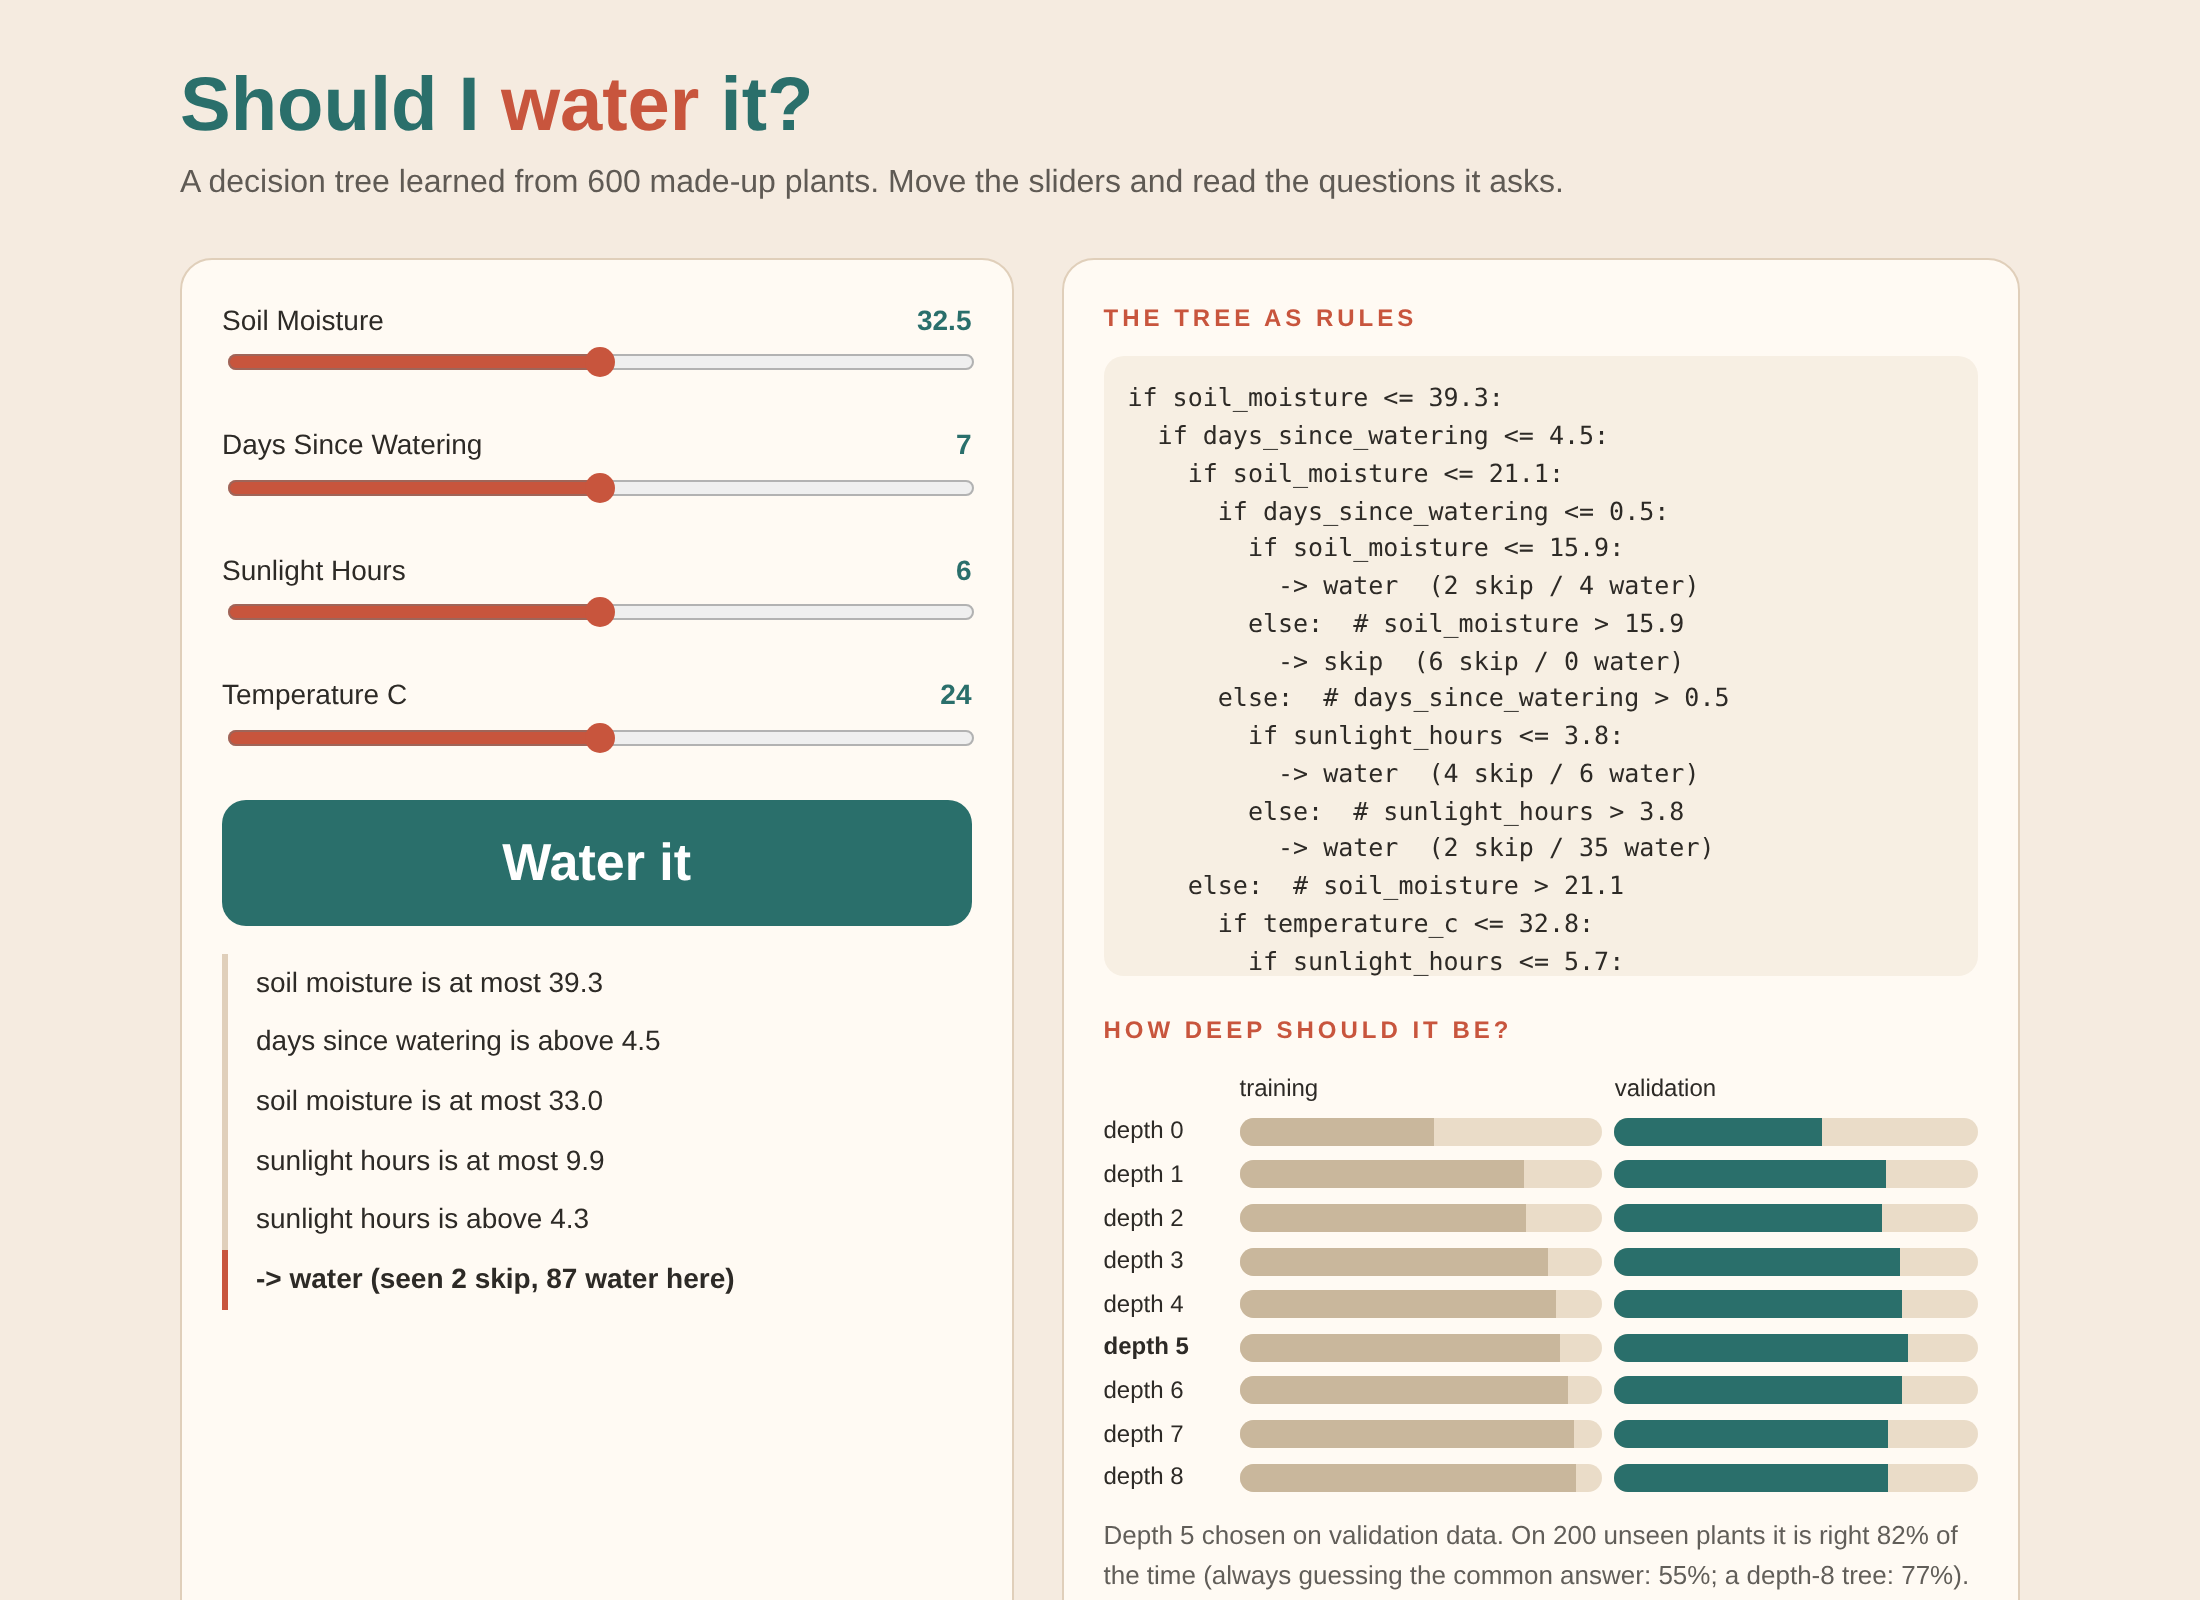
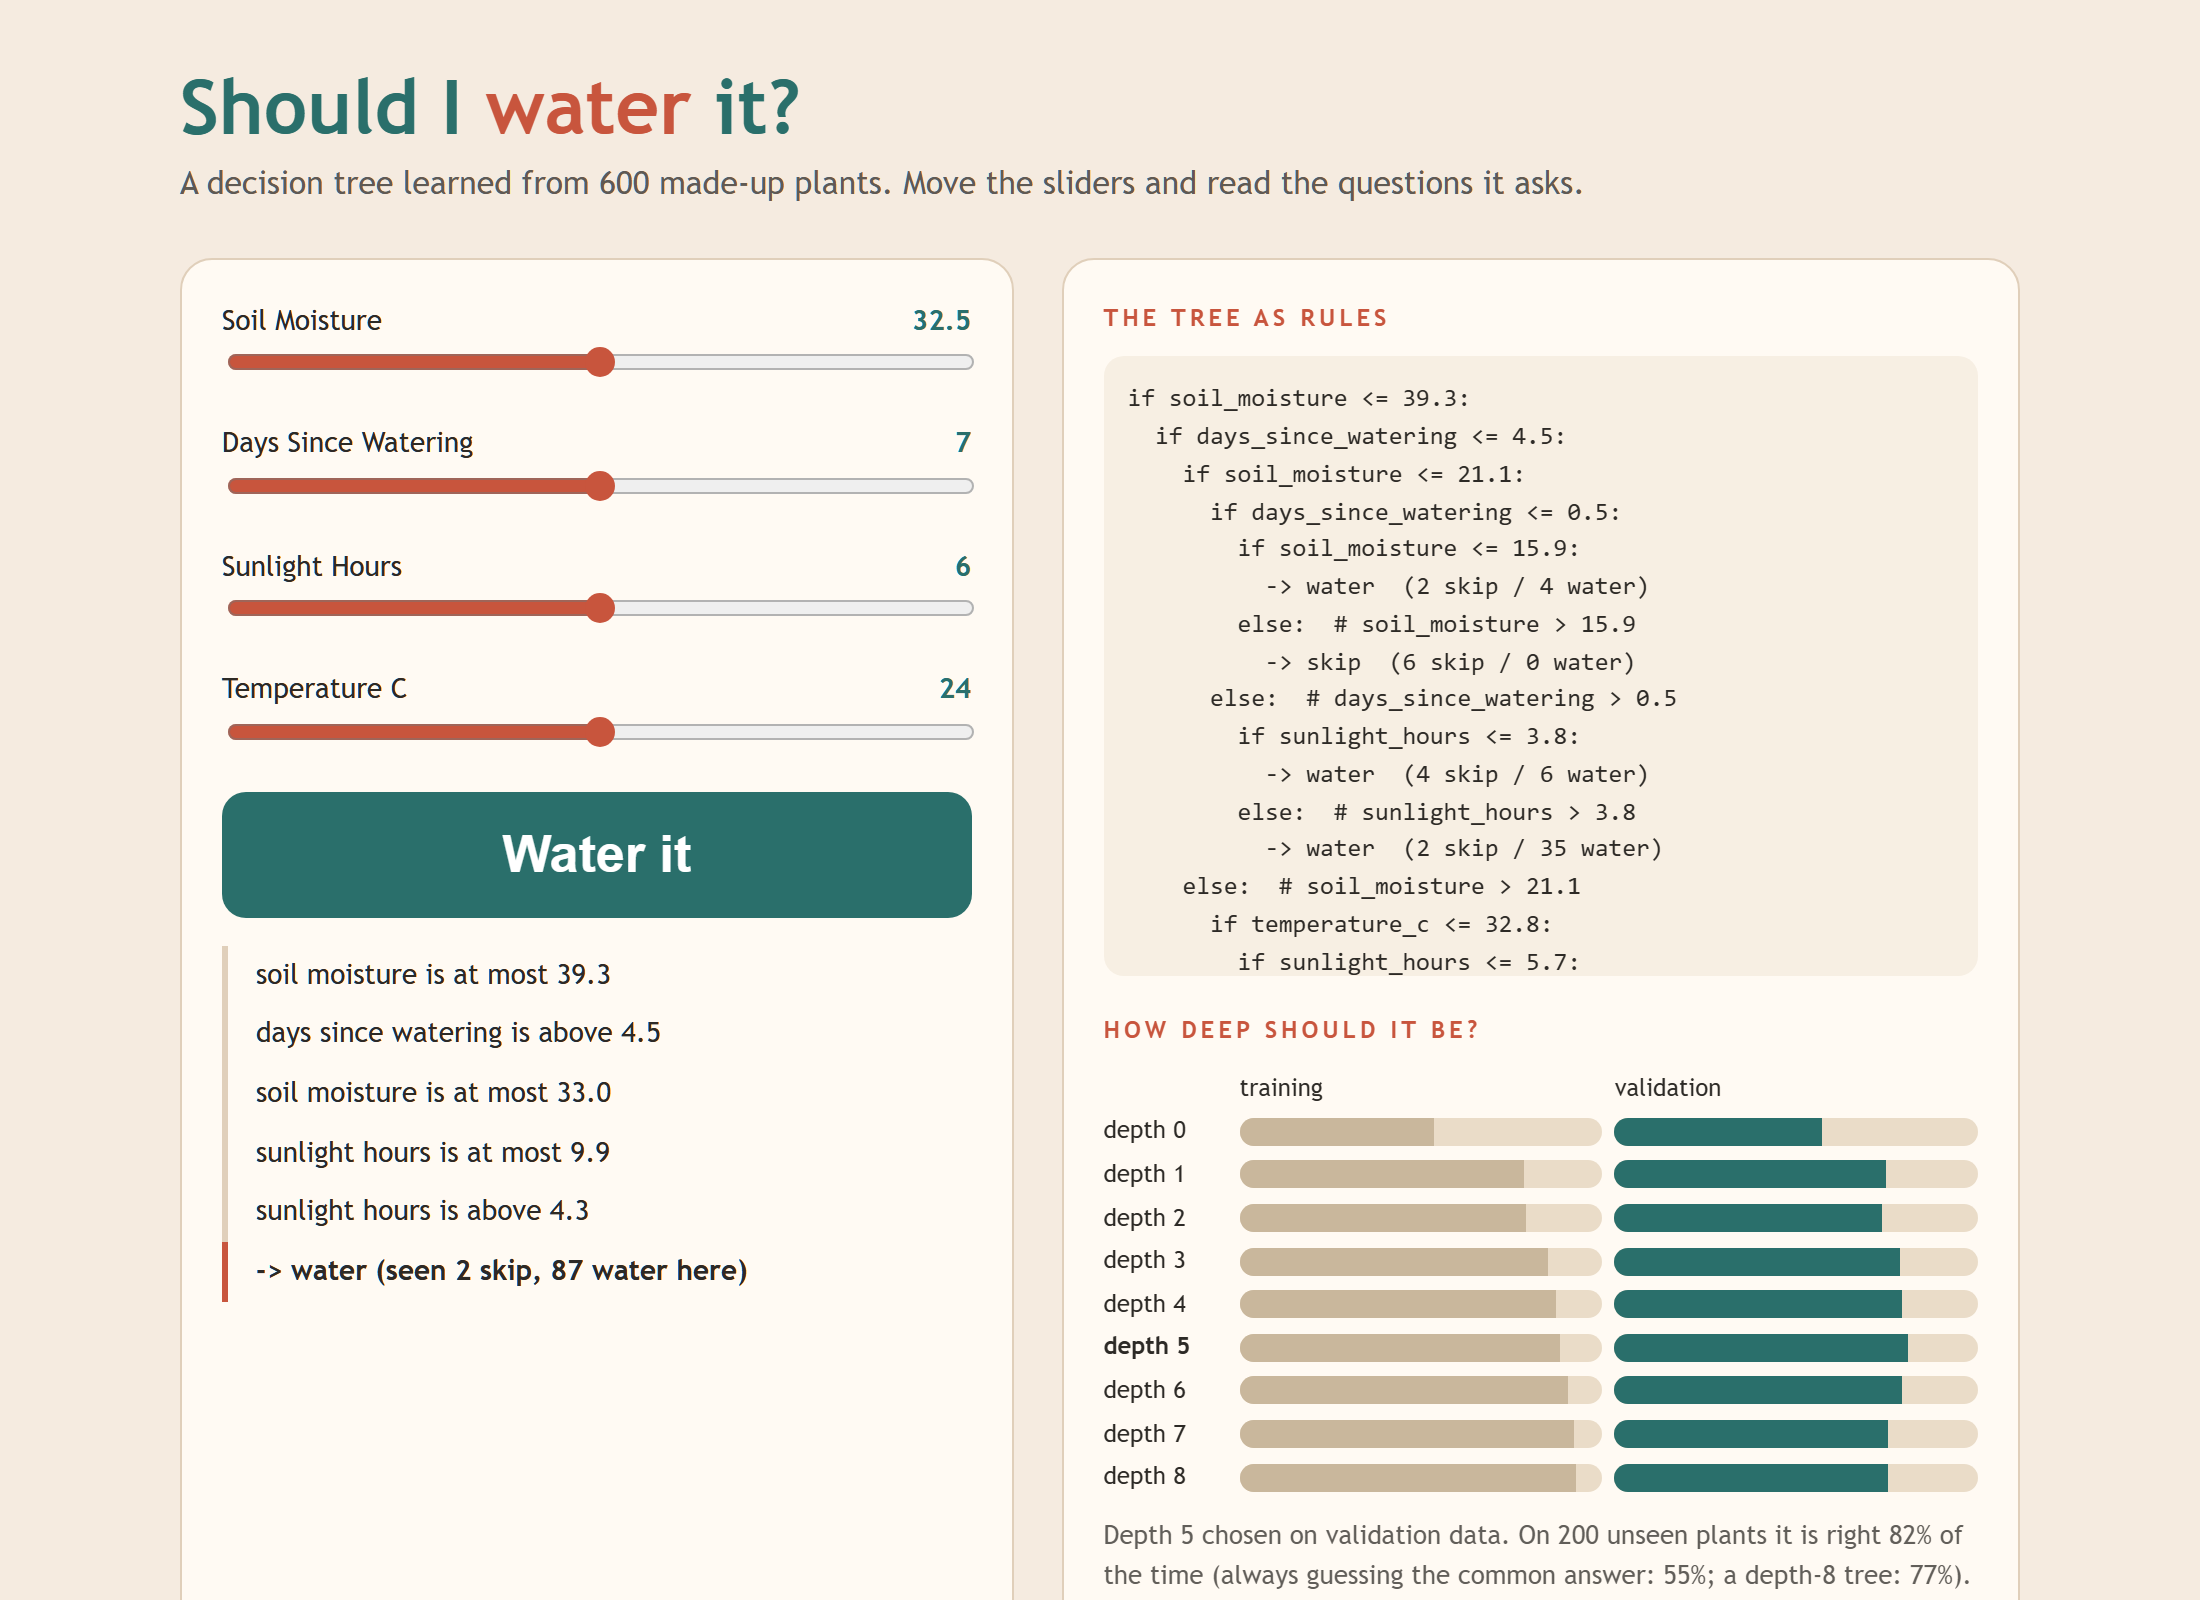
Improve plant-watering-tree

diff --git a/projects/plant-watering-tree/static/index.html b/projects/plant-watering-tree/static/index.html
@@ -15,18 +15,19 @@ pre{margin:0;font:12.5px/1.5 Menlo,Consolas,monospace;white-space:pre-wrap;max-h
 .bars .row{display:grid;grid-template-columns:62px 1fr 1fr;gap:6px;align-items:center;font-size:12px;margin:3px 0}.bar{height:14px;background:#eadcc8;border-radius:7px;overflow:hidden}.bar i{display:block;height:100%}.t i{background:#c9b79c}.v i{background:var(--teal)}.row.best{font-weight:700}
 .note{font-size:13px;opacity:.75;margin:10px 0 0}
 @media(max-width:760px){main{grid-template-columns:1fr}}
+@media (prefers-color-scheme: dark){:root{--bg:#1a130f;--ink:#f5e9dc;--card:#2a201a;--teal:#6fc2bb;--clay:#ff8a6e;--line:#4a3a2e}pre{background:#2a201a;color:var(--ink)}.ans{color:#1a130f}}
 </style></head><body><main>
 <header><h1>Should I <b>water</b> it?</h1><p class="sub">A decision tree learned from 600 made-up plants. Move the sliders and read the questions it asks.</p></header>
-<section class="card"><div id="sl"></div><div class="ans" id="ans"></div><ul class="why" id="why"></ul></section>
+<section class="card"><div id="sl"></div><div class="ans" id="ans" aria-live="polite"></div><ul class="why" id="why"></ul></section>
 <section class="card"><h2>The tree as rules</h2><pre id="rules"></pre>
 <h2 style="margin-top:18px">How deep should it be?</h2><div class="bars" id="bars"></div><p class="note" id="note"></p></section>
 </main><script>
 const $=i=>document.getElementById(i);let info,tm,depth=null;const v={};
-function sliders(){$('sl').innerHTML=info.features.map(f=>{const [a,b]=info.ranges[f];v[f]=(a+b)/2;return `<div class="sl"><label>${f.replace(/_/g,' ')}<b id="v_${f}">${v[f]}</b></label><input type="range" min="${a}" max="${b}" step="${f=='soil_moisture'||f=='sunlight_hours'||f=='temperature_c'?0.5:1}" value="${v[f]}" data-f="${f}"></div>`}).join('');
+function sliders(){$('sl').innerHTML=info.features.map(f=>{const [a,b]=info.ranges[f];v[f]=(a+b)/2;return `<div class="sl"><label>${f.replace(/_/g,' ')}<b id="v_${f}">${v[f]}</b></label><input type="range" aria-label="${f.replace(/_/g,' ')}" min="${a}" max="${b}" step="${f=='soil_moisture'||f=='sunlight_hours'||f=='temperature_c'?0.5:1}" value="${v[f]}" data-f="${f}"></div>`}).join('');
 $('sl').oninput=e=>{const f=e.target.dataset.f;v[f]=+e.target.value;$('v_'+f).textContent=v[f];clearTimeout(tm);tm=setTimeout(go,60)}}
-async function go(){const q=new URLSearchParams({...v,depth});const j=await (await fetch('/predict?'+q)).json();
-$('ans').className='ans '+j.answer;$('ans').textContent=j.answer=='water'?'Water it':'Skip today';$('why').innerHTML=j.why.map(x=>`<li>${x}</li>`).join('');$('rules').textContent=j.rules.join('\n')}
+async function go(){try{const q=new URLSearchParams({...v,depth});const j=await (await fetch('/predict?'+q)).json();
+$('ans').className='ans '+j.answer;$('ans').textContent=j.answer=='water'?'Water it':'Skip today';$('why').innerHTML=j.why.map(x=>`<li>${x}</li>`).join('');$('rules').textContent=j.rules.join('\n')}catch(e){$('why').innerHTML='<li>Could not update the answer. Try again.</li>'}}
 fetch('/info').then(r=>r.json()).then(d=>{info=d;depth=d.best_depth;sliders();
 $('bars').innerHTML='<div class="row"><span></span><span>training</span><span>validation</span></div>'+d.scores.map(s=>`<div class="row${s.depth==d.best_depth?' best':''}"><span>depth ${s.depth}</span><div class="bar t"><i style="width:${s.train*100}%"></i></div><div class="bar v"><i style="width:${s.validation*100}%"></i></div></div>`).join('');
-$('note').textContent=`Depth ${d.best_depth} chosen on validation data. On 200 unseen plants it is right ${Math.round(d.test_accuracy*100)}% of the time (always guessing the common answer: ${Math.round(d.majority_accuracy*100)}%; a depth-8 tree: ${Math.round(d.deep_test_accuracy*100)}%).`;go()});
+$('note').textContent=`Depth ${d.best_depth} chosen on validation data. On 200 unseen plants it is right ${Math.round(d.test_accuracy*100)}% of the time (always guessing the common answer: ${Math.round(d.majority_accuracy*100)}%; a depth-8 tree: ${Math.round(d.deep_test_accuracy*100)}%).`;go()}).catch(()=>{$('ans').className='ans skip';$('ans').textContent='Could not load the model. Refresh to try again.'});
 </script></body></html>

diff --git a/projects/plant-watering-tree/tests/test_all.py b/projects/plant-watering-tree/tests/test_all.py
@@ -88,3 +88,7 @@ def test_api():
     q2 = {**q, "soil_moisture": 55, "days_since_watering": 1}
     assert c.get("/predict", params=q2).json()["answer"] == "skip"
     assert c.get("/predict", params={**q, "depth": 99}).status_code == 422 and c.get("/").status_code == 200
+    page = c.get("/").text
+    assert "Could not load the model" in page and "Could not update the answer" in page
+    assert 'aria-label="' in page and 'id="ans" aria-live="polite"' in page
+    assert "prefers-color-scheme: dark" in page
